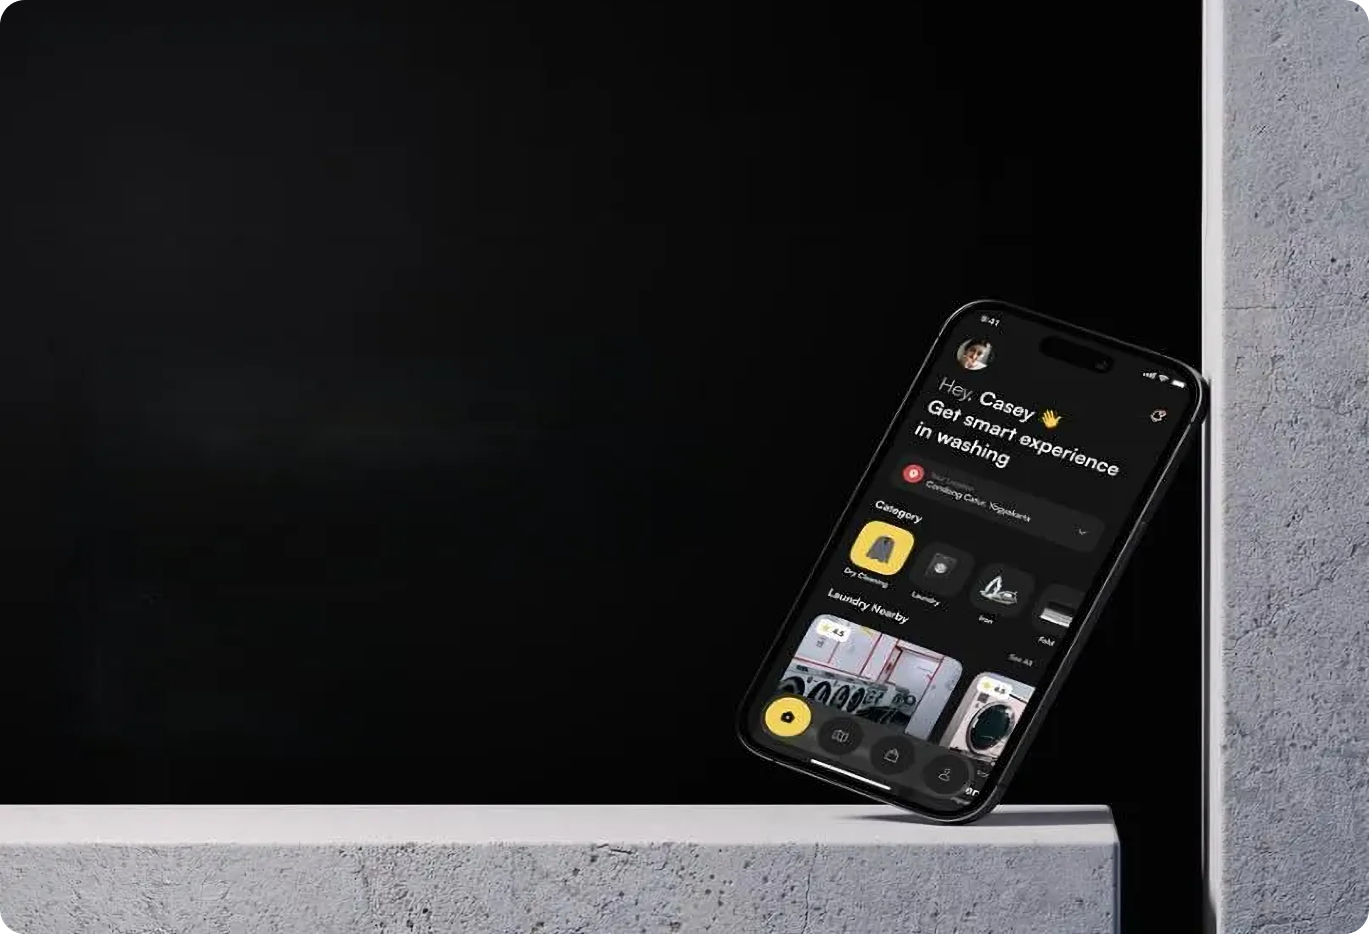
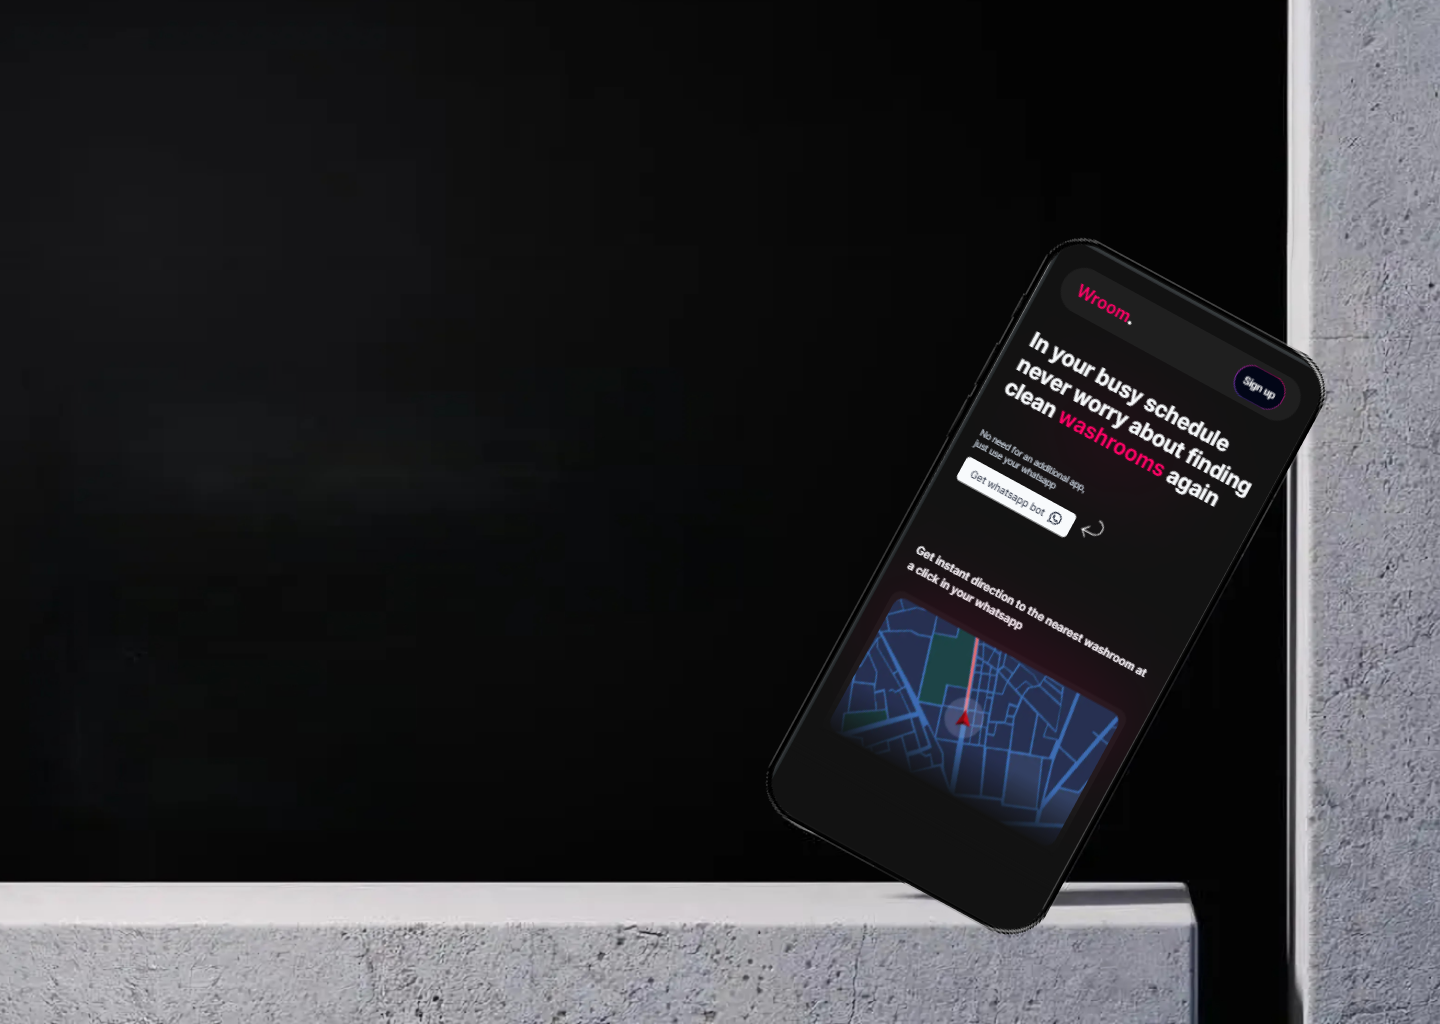
ui: make hero section mobile responsive

diff --git a/src/app/(main)/getstarted/page.tsx b/src/app/(main)/getstarted/page.tsx
@@ -21,7 +21,7 @@ const Page = () => {
           </p>
         </div>
         <div className="h-[78vh] md:h-[90vh]">
-          {Array(3)
+          {/* {Array(3)
             .fill(null)
             .map((_, index) => (
               <div className="flex justify-center" key={index}>
@@ -39,11 +39,15 @@ const Page = () => {
                   } origin-bottom ${index === 1 ? "z-10" : "z-0"} `}
                 />
               </div>
-            ))}
+            ))} */}
+          {/* <Image /> */}
           <Link href="#qrcode" className="flex justify-center mt-[480px]">
-          <Link href="/getstarted" className={buttonVariants({className: "flex items-center"}) }>
-            Get bot <FaWhatsapp className="h-5 w-5 ml-2" />
-          </Link>
+            <Link
+              href="/getstarted"
+              className={buttonVariants({ className: "flex items-center" })}
+            >
+              Get bot <FaWhatsapp className="h-5 w-5 ml-2" />
+            </Link>
           </Link>
         </div>
 
@@ -53,11 +57,6 @@ const Page = () => {
       <section className="section-spacing">
         <div>
           <h1 className="text-2xl font-bold text-center">Lorem ipsum lorem</h1>
-          {/* <p className="text-sm text-slate-300">
-            Lorem ipsum dolor, sit amet consectetur adipisicing elit. Omnis,
-            optio, earum quam porro labore voluptatum repellat corrupti
-            laboriosam
-          </p> */}
         </div>
         <div className="w-full mt-8 flex flex-col md:flex-row gap-4">
           {WHATSAPP_USER_PAGE_DETAILS.map((data) => (

diff --git a/src/app/(main)/page.tsx b/src/app/(main)/page.tsx
@@ -1,5 +1,6 @@
 import FinalSection from "@/components/sections/final-section";
 import FindWashrooms from "@/components/sections/find-washrooms";
+import Hero from "@/components/sections/hero";
 import Hero2 from "@/components/sections/new-hero";
 import Priorities from "@/components/sections/priorities";
 import Updates from "@/components/sections/updates";
@@ -14,7 +15,8 @@ const Page = async () => {
 
   return (
     <div className="overflow-hidden">
-      <Hero2 />
+      <Hero />
+      <Hero2/>
       <Priorities />
       <Updates />
       <FindWashrooms />

diff --git a/src/assets/index.ts b/src/assets/index.ts
@@ -6,6 +6,9 @@ import phone from "../../public/images/phone.png";
 import qrcode from "../../public/images/qrcode.png";
 
 import herobg2 from "../../public/images/herobg2.png";
+import whatsapp1 from "../../public/images/whatsapp1.png";
+import whatsapp2 from "../../public/images/whatsapp2.png";
+import whatsappcenter from "../../public/images/whatsappcenter.png";
 
 // SVGs
 import arrow from "../../public/svg/arrow.svg";
@@ -25,4 +28,7 @@ export {
   herobg2,
   decorative2,
   landinghome,
+  whatsapp1,
+  whatsapp2,
+  whatsappcenter,
 };

diff --git a/src/components/sections/hero.tsx b/src/components/sections/hero.tsx
@@ -7,7 +7,7 @@ import Link from "next/link";
 
 const Hero = () => {
   return (
-    <section className="section-spacing py-12 flex items-start flex-col md:flex-row">
+    <section className="md:hidden section-spacing py-12 flex items-start flex-col md:flex-row mt-20">
       <div>
         <p className="text-3xl md:text-5xl font-bold md:leading-[3.5rem] lg:mt-4">
           In your busy schedule <br />

diff --git a/src/components/sections/new-hero.tsx b/src/components/sections/new-hero.tsx
@@ -7,7 +7,7 @@ import { buttonVariants } from "../ui/button";
 const Hero2 = () => {
   return (
     <div className="">
-      <div className="w-screen h-screen flex justify-center relative">
+      <div className="max-md:hidden w-screen h-screen flex justify-center relative">
         <Image
           src={herobg2}
           alt="hero-bg"
